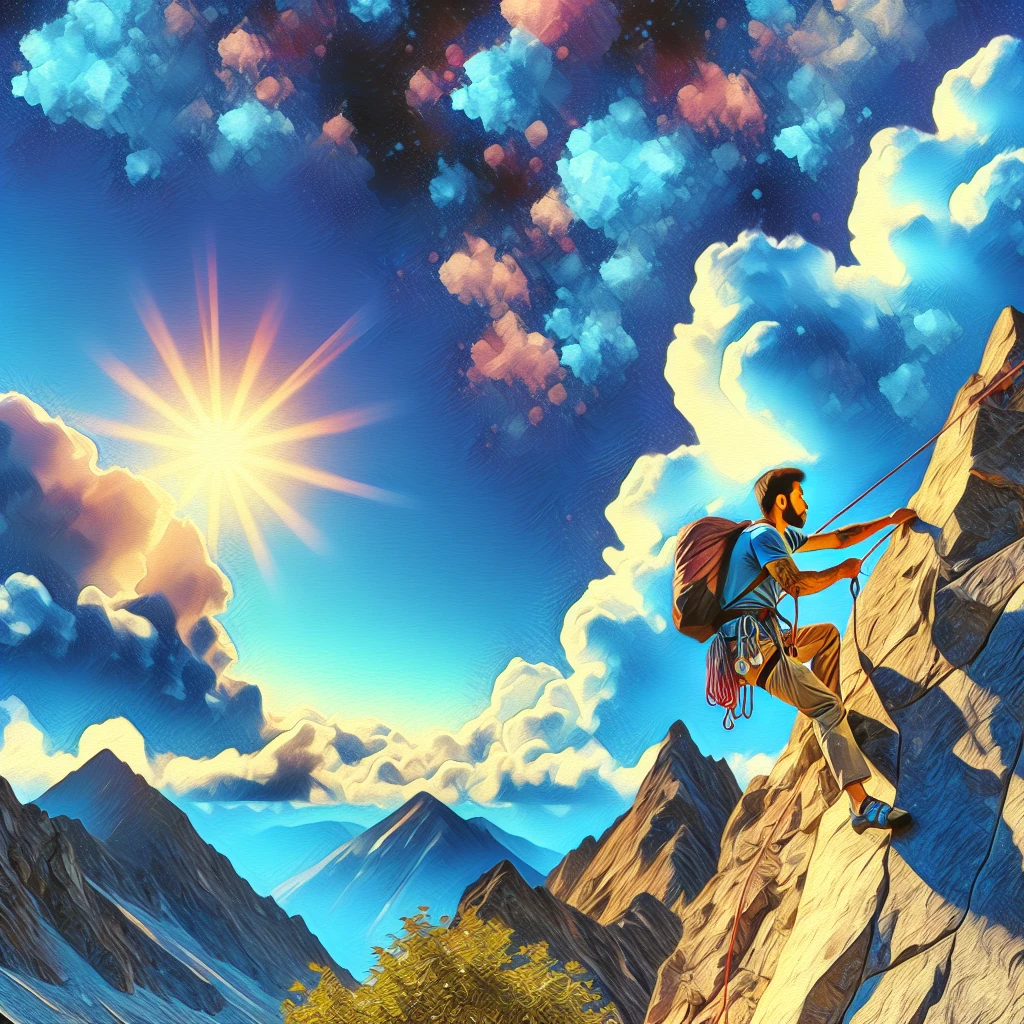
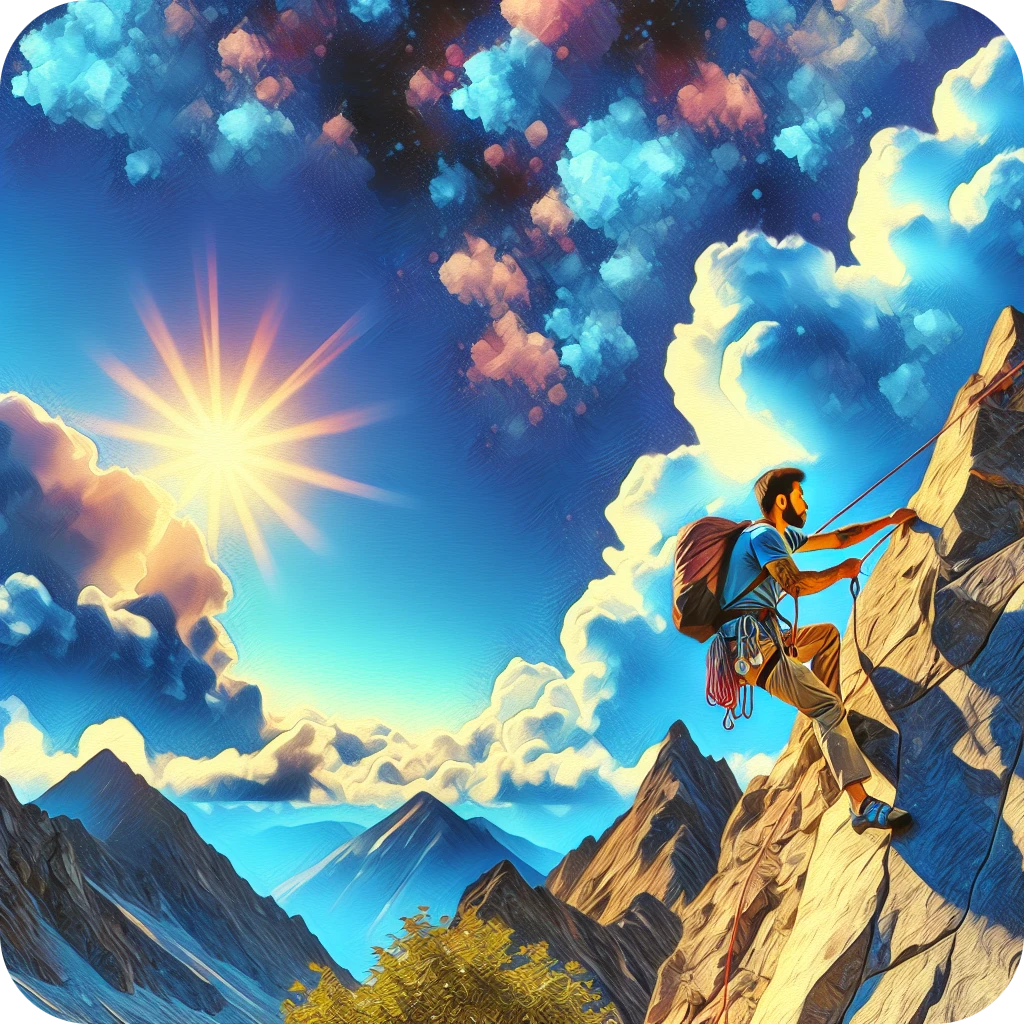
round corners of showcase images

diff --git a/README.md b/README.md
@@ -60,7 +60,7 @@ A baroque style painting of people eating ice cream under a clear sky in the eve
 #### Image
 
 <div align="center">
-<img src="assets/artworks/baroque-sundown-delights.png" alt="Baroque Sundown Delights" width="400" style="border-radius: 20px"/>
+<img src="assets/artworks/baroque-sundown-delights.png" alt="Baroque Sundown Delights" width="400"/>
 <p style="font-style: italic">Baroque Sundown Delights</p>
 </div>
 
@@ -97,7 +97,7 @@ An impressionist painting of a person cycling in the afternoon under overcast cl
 #### Image
 
 <div align="center">
-<img src="assets/artworks/impressions-of-a-coding-cyclist.png" alt="Impressions of a Coding Cyclist" width="400" style="border-radius: 20px"/>
+<img src="assets/artworks/impressions-of-a-coding-cyclist.png" alt="Impressions of a Coding Cyclist" width="400"/>
 <p style="font-style: italic">Impressions of a Coding Cyclist</p>
 </div>
 
@@ -132,7 +132,7 @@ An acrylic painting of a person rock climbing under a sky with scattered clouds 
 #### Image
 
 <div align="center">
-<img src="assets/artworks/ascension-under-the-midday-sky.png" alt="Ascension Under the Midday Sky" width="400" style="border-radius: 20px"/>
+<img src="assets/artworks/ascension-under-the-midday-sky.png" alt="Ascension Under the Midday Sky" width="400"/>
 <p style="font-style: italic">Ascension Under the Midday Sky</p>
 </div>
 
@@ -168,7 +168,7 @@ A vintage style image of an afternoon event with pizza and coffee with cake unde
 #### Image
 
 <div align="center">
-<img src="assets/artworks/vintage-afternoon-pizza-coffee-and-cake.png" alt="Vintage Afternoon: Pizza, Coffee, and Cake" width="400" style="border-radius: 20px"/>
+<img src="assets/artworks/vintage-afternoon-pizza-coffee-and-cake.png" alt="Vintage Afternoon: Pizza, Coffee, and Cake" width="400"/>
 <p style="font-style: italic">Ascension Under the Midday Sky</p>
 </div>
 
